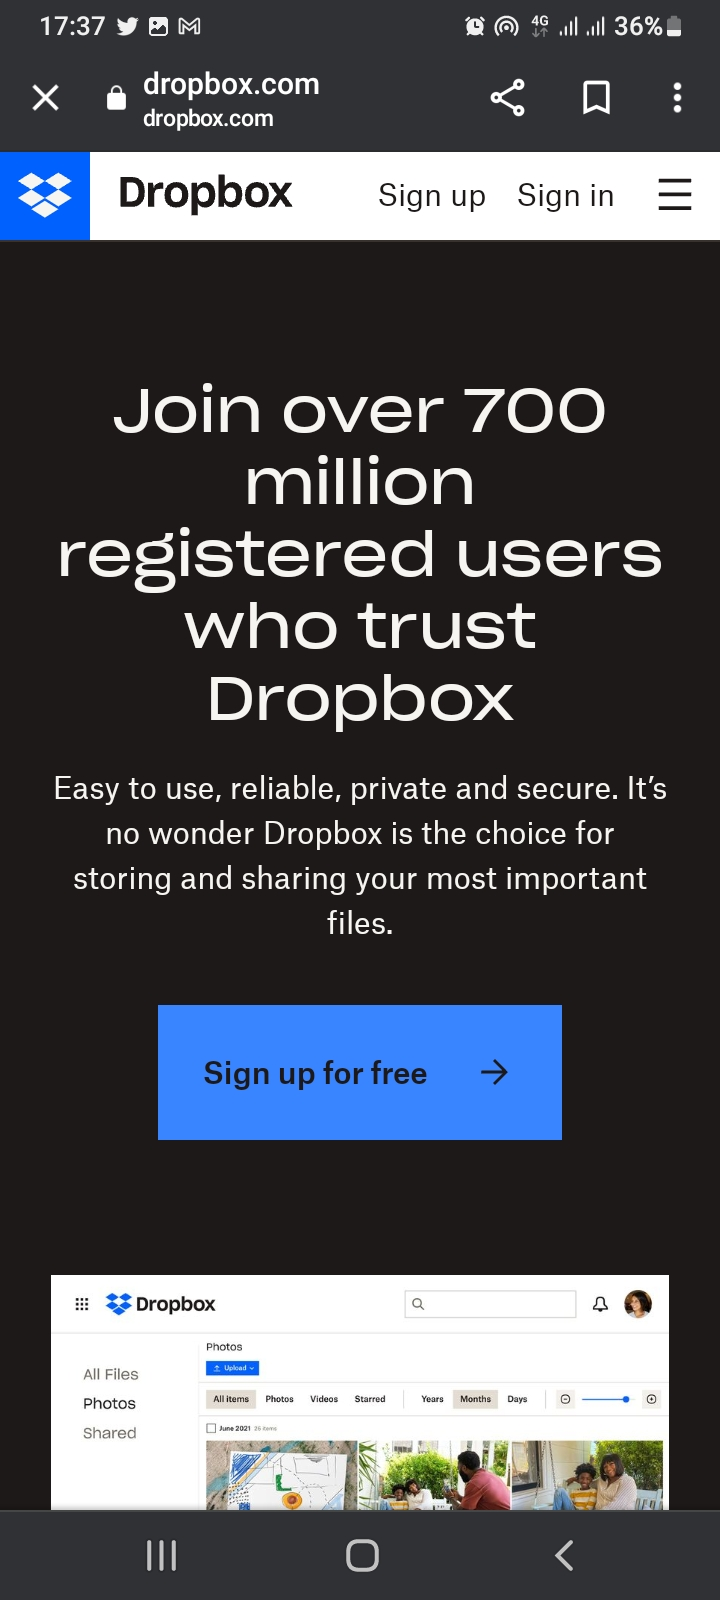
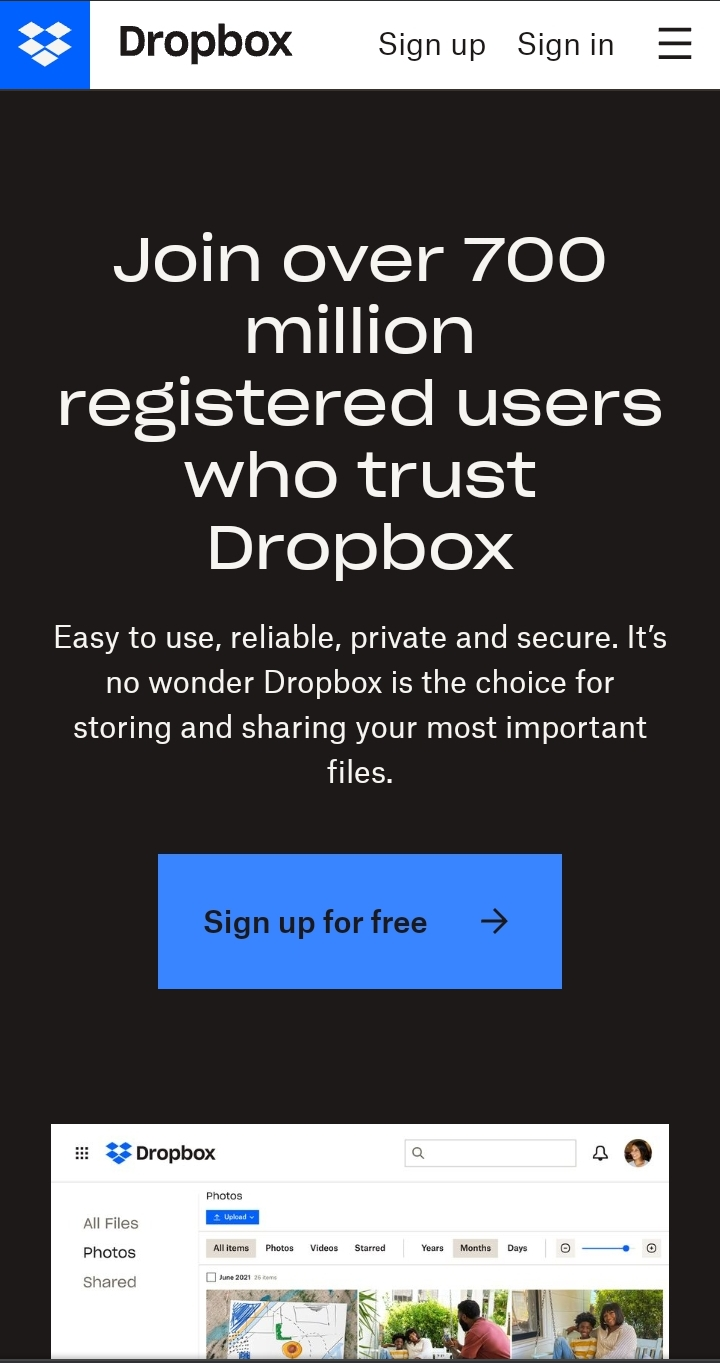
week 2

diff --git a/lesson2/styles/small.css b/lesson2/styles/small.css
@@ -37,7 +37,7 @@ h3 {
 
 p {
     font-family: var(--paragraph-font);
-    font-size: 16px;
+    font-size: 18px;
 }
 
 header {
